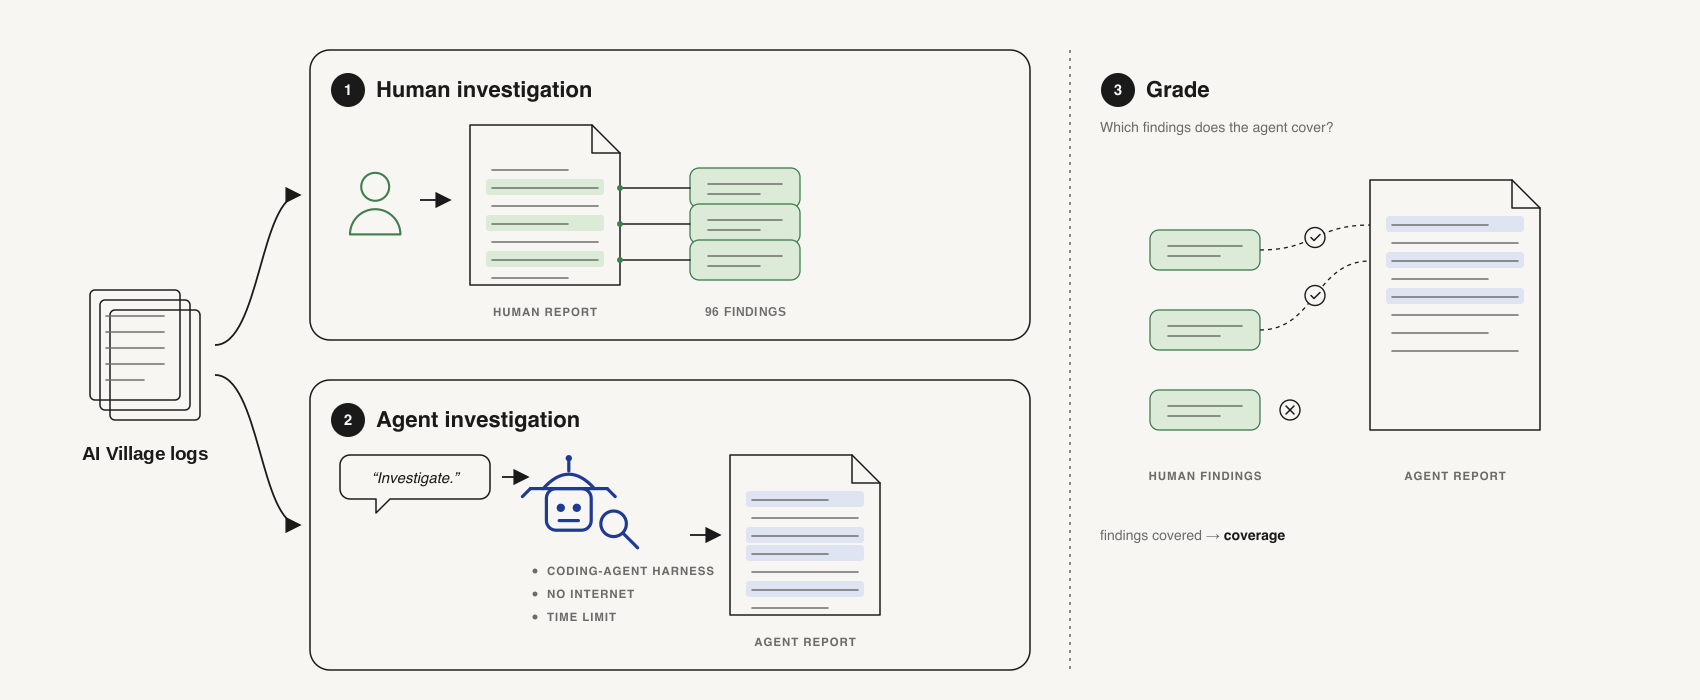
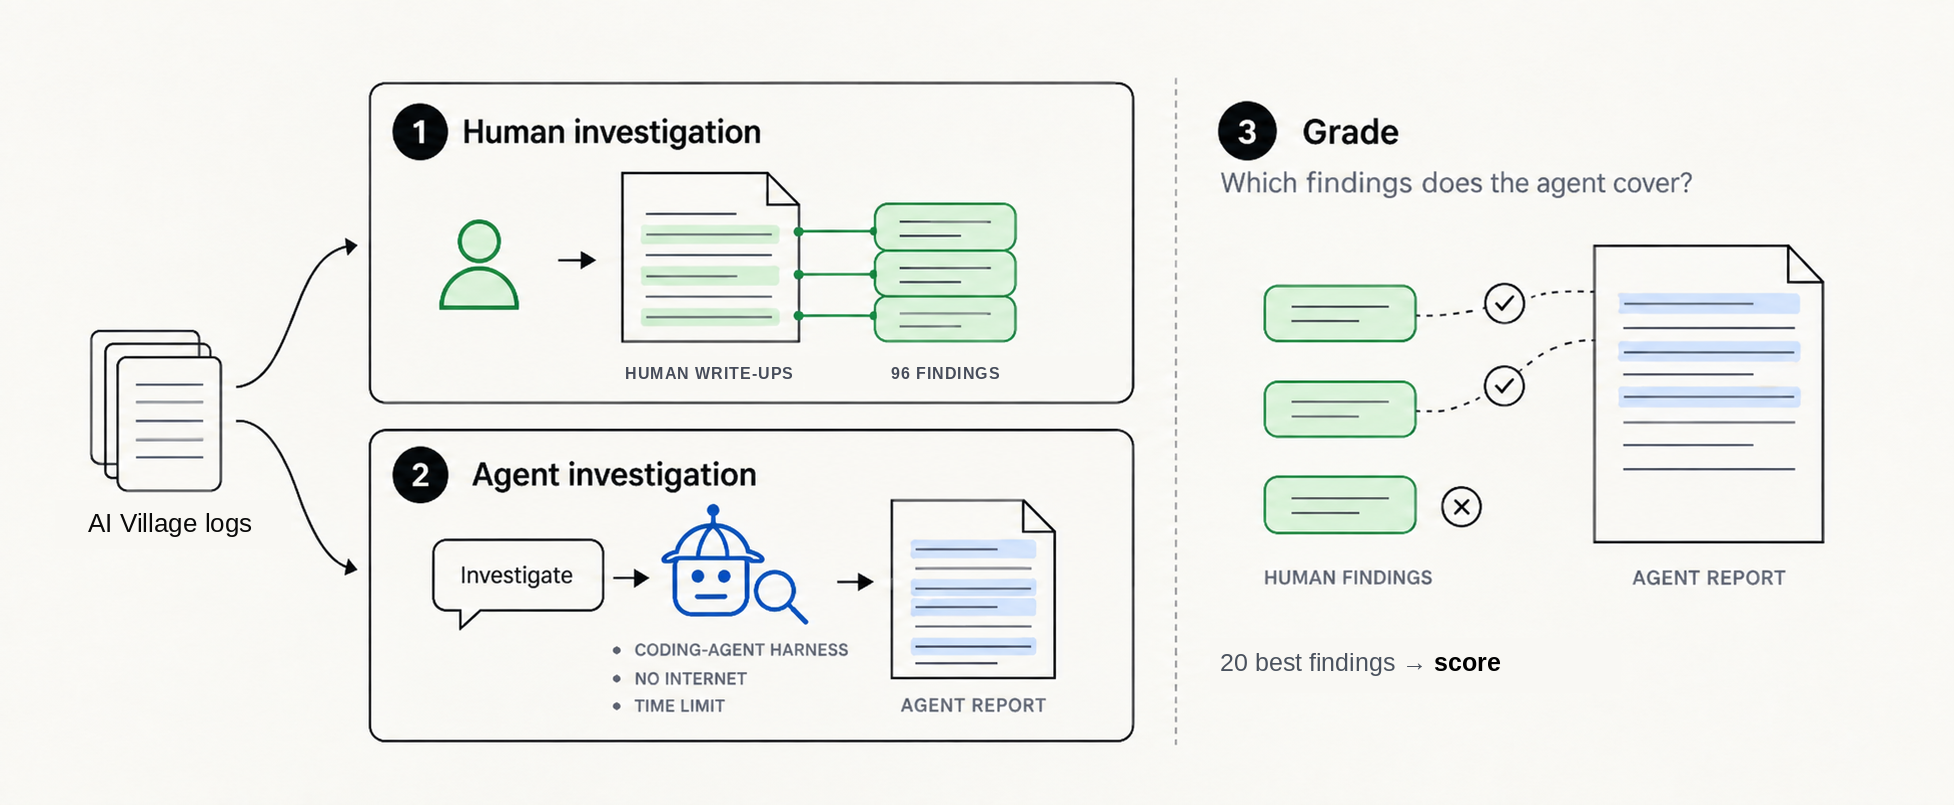
README: the published pipeline diagram, relabelled for the AI Village; drop the per-report dot plot

diff --git a/README.md b/README.md
@@ -6,6 +6,8 @@
 - **Answer key.** 96 failures that people wrote about in AI Digest's posts, on X and on Discord, each checked against the logs.
 - **Result.** Reports score 16% to 68% (mean 36%). GPT-6 Astra and GPT-6.1 Sol with subagents score best (57% and 55%). Subagents raised the score for five of the six models that could use them.
 
+![The pipeline: people wrote about the Village and we turned their write-ups into 96 findings; an agent investigates the same logs and writes a report; a judge scores which findings the report covers.](benchmark/incidents/aivillage/figures/pipeline.png)
+
 ## How it works
 
 1. **Answer key.** A model extracted failures from 18 Substack posts, 157 X posts and Discord threads. We merged duplicates, had an agent check each one against the logs, and kept the 96 the logs support ([`findings/`](benchmark/incidents/aivillage/findings/)).
@@ -15,8 +17,6 @@
 **The score.** A report's score is the mean of its 20 best finding scores. The report lists 20 findings, so fully stating 20 different key findings scores 100%, and the 76 it had no room for don't count against it. Averaging all 96 instead ranks the reports almost identically; that number is in [`results/`](benchmark/incidents/aivillage/results/) as "coverage".
 
 ## Results
-
-![Score per report, by model, with and without subagents.](benchmark/incidents/aivillage/figures/scores_by_report.png)
 
 | | Score |
 |---|---|
